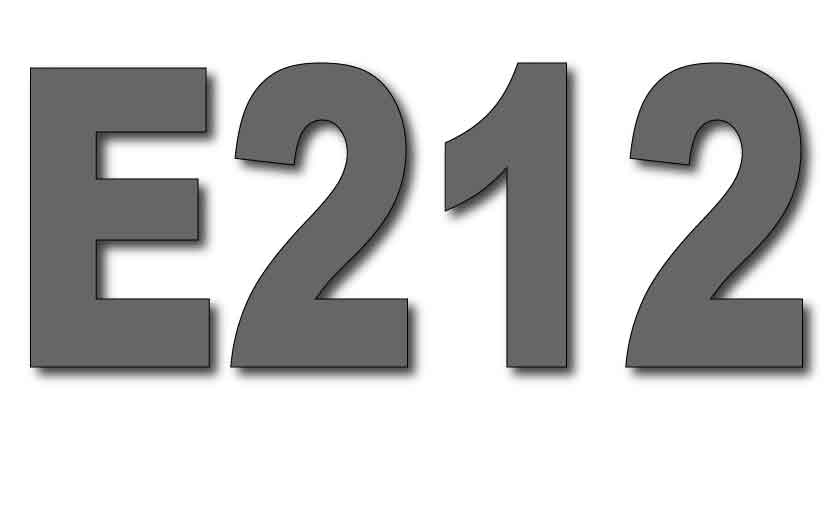
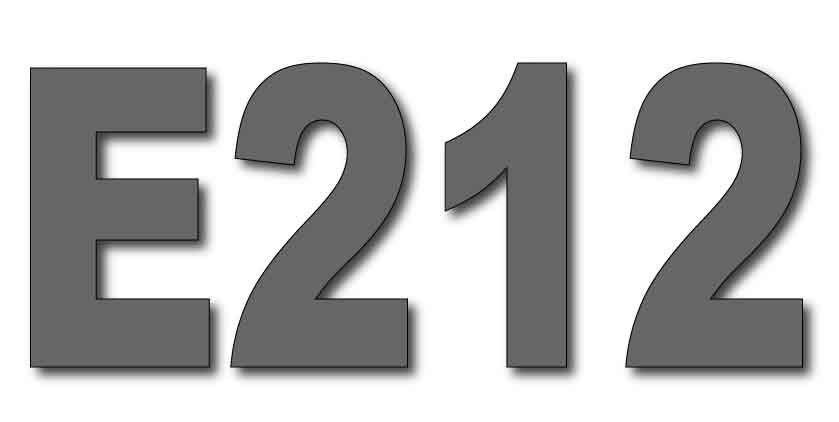
positioning of e212 illustration and colouring of projects illustration

diff --git a/app/site/partials/home.html b/app/site/partials/home.html
@@ -14,12 +14,8 @@
     </div>
     <div class="preloader"><i class="fa fa-sun-o fa-spin"></i></div>
 </section> -->
-<!--/#home-slider
+<!--/#home-slider -->
 
-<!--
-<div class="slider-wrapper main-slider">
-        <img class="slider-img slider-hill" name="{{ctrl.images[ctrl.sliderIndex]}}" ng-src="{{ctrl.images[ctrl.sliderIndex].src}}" alt="" />
-</div> -->
 <section id="services">
     <div class="container">
         <div class="row">
@@ -44,7 +40,7 @@
             <div class="col-sm-4 text-center padding wow fadeIn" data-wow-duration="1000ms" data-wow-delay="900ms">
                 <div class="single-service">
                     <div class="wow scaleIn" data-wow-duration="500ms" data-wow-delay="900ms">
-                        <img src="assets/images/home/e212.jpg" alt="" class="e212">
+                        <img src="assets/images/home/e212.jpg" alt="">
                     </div>
                     <h2>Where do we meet up?</h2>
                     <p>The Makers Club currently resides in the Georgian College ChangeMaker Space in room E212. You can check out a map of the college with our location marked, <a ng-click="ctrl.go('about')" title="Go to about page for the map">here</a> on our about page!</p>
